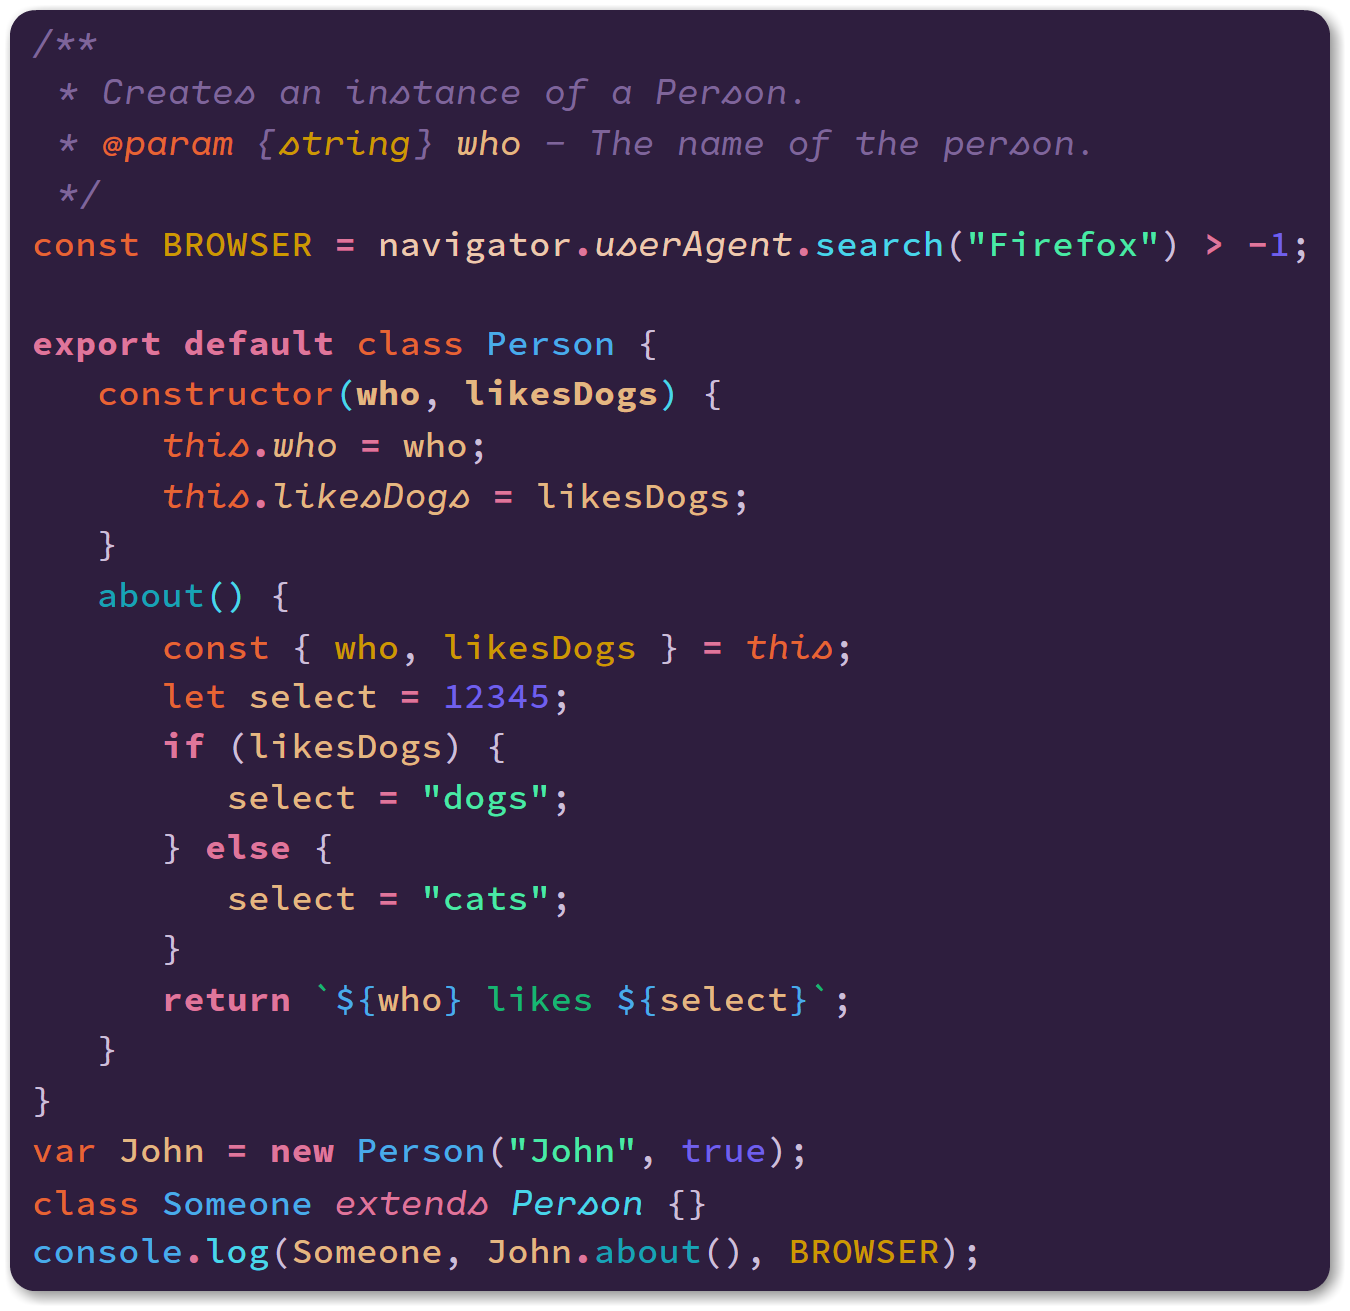
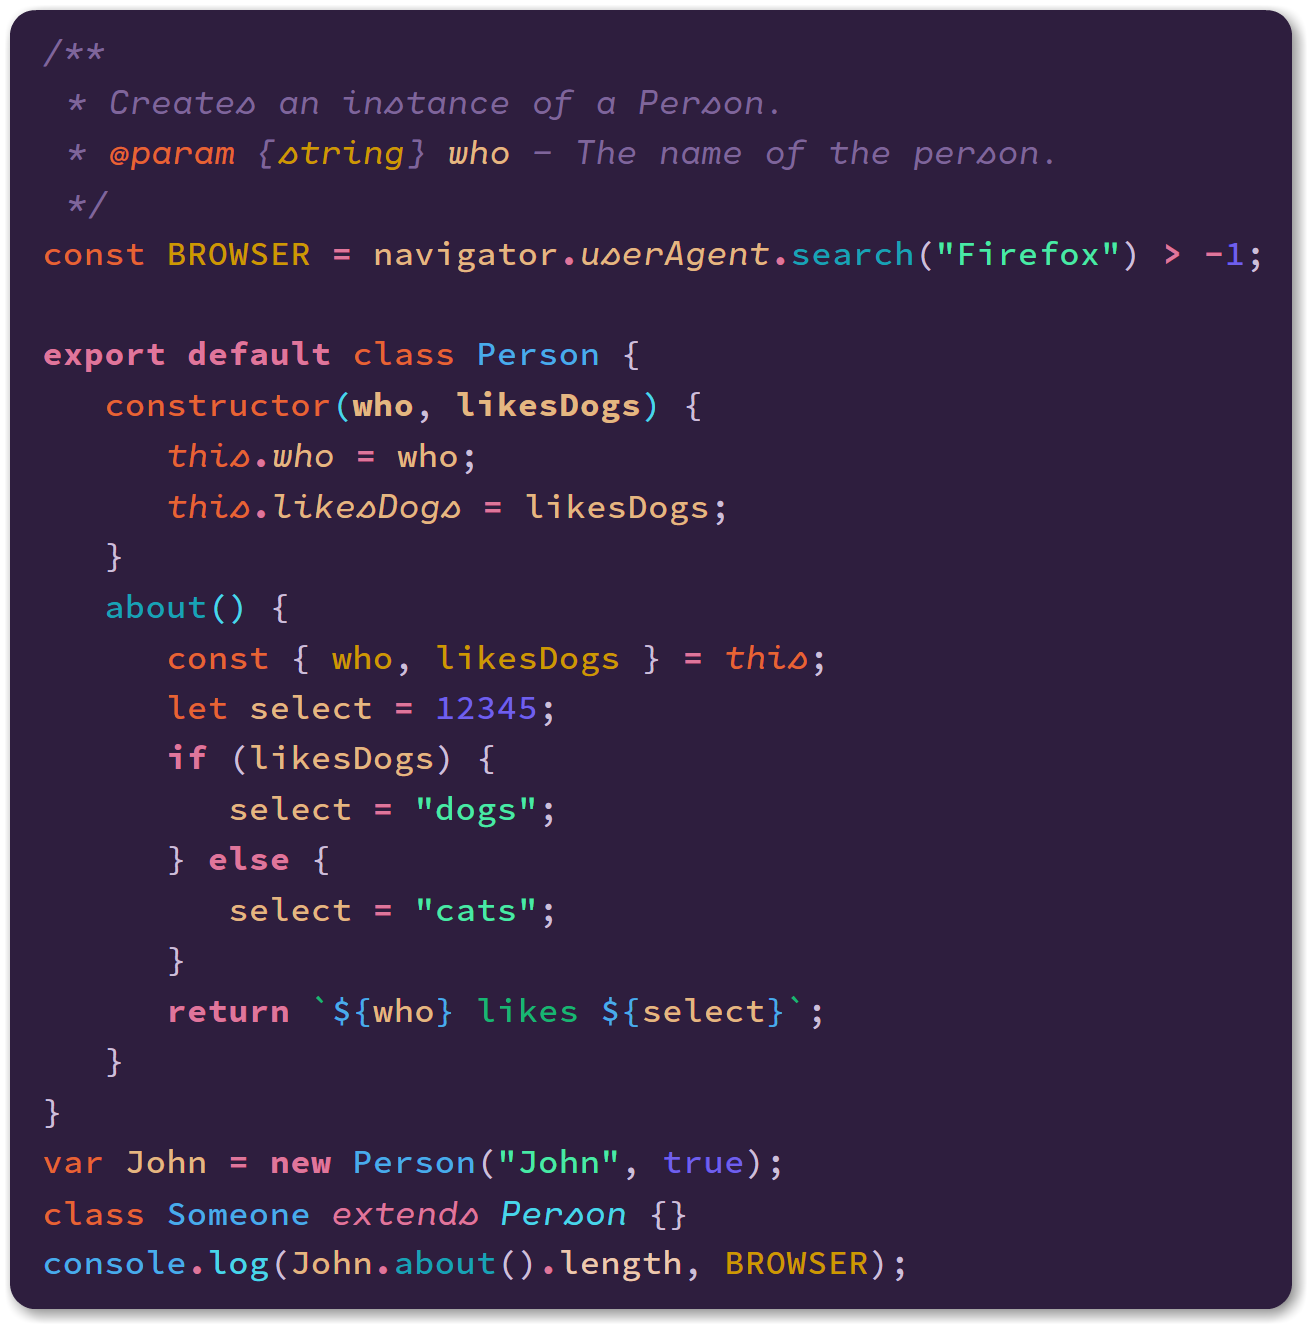
7.4.0

diff --git a/JavaScript.js b/JavaScript.js
@@ -24,8 +24,9 @@
       }
       var John = new Person("John", true);
       class Someone extends Person {}
-      console.log(Someone, John.about(), BROWSER);
+      console.log(John.about().length, BROWSER);
 
 
 
+      console.log(Someone);
       let a = () => {};

diff --git a/README.md b/README.md
@@ -136,7 +136,7 @@ The color names were matched to one of the following main color hues: Red, Yello
 | Cinnabar        | Orange | ![#e66533](https://placehold.it/15/e66533/000000?text=+) `#e66533` | Function & Variable Declaration, Tags & `this` |
 | Buddha Gold     | Yellow | ![#cc9900](https://placehold.it/15/cc9900/000000?text=+) `#cc9900` | Attributes, Constants & Type annotations       |
 | Gold Sand       | Yellow | ![#e4b781](https://placehold.it/15/e4b781/000000?text=+) `#e4b781` | Variables & Parameters                         |
-| Desert Sand     | Brown  | ![#edc9af](https://placehold.it/15/edc9af/000000?text=+) `#edc9af` | DOM Objects                                    |
+| Desert Sand     | Brown  | ![#edc9af](https://placehold.it/15/edc9af/000000?text=+) `#edc9af` | Object properties, ID selectors in CSS         |
 
 ### Minimus Colors
 
@@ -153,7 +153,7 @@ The color names were matched to one of the following main color hues: Red, Yello
 | Burning Sand  | Orange | ![#d18161](https://placehold.it/15/d18161/000000?text=+) `#d18161` | Function & Variable Declaration, Tags & `this` |
 | Husk          | Yellow | ![#b3994d](https://placehold.it/15/b3994d/000000?text=+) `#b3994d` | Attributes, Constants & Type annotations       |
 | Tan           | Brown  | ![#d3b692](https://placehold.it/15/d3b692/000000?text=+) `#d3b692` | Variables & Parameters                         |
-| Dust Storm    | Orange | ![#e1cbbc](https://placehold.it/15/e1cbbc/000000?text=+) `#e1cbbc` | DOM Objects                                    |
+| Dust Storm    | Orange | ![#e1cbbc](https://placehold.it/15/e1cbbc/000000?text=+) `#e1cbbc` | Object properties, ID selectors in CSS         |
 
 ### Lux Colors
 
@@ -170,7 +170,7 @@ The color names were matched to one of the following main color hues: Red, Yello
 | Grenadier        | Orange | ![#d13b00](https://placehold.it/15/d13b00/000000?text=+) `#d13b00` | Function & Variable Declaration, Tags & `this` |
 | Pirate Gold      | Yellow | ![#b38600](https://placehold.it/15/b38600/000000?text=+) `#b38600` | Attributes, Constants & Type annotations       |
 | Carrot Orange    | Orange | ![#ee962b](https://placehold.it/15/ee962b/000000?text=+) `#ee962b` | Variables & Parameters                         |
-| Reno Sand        | Brown  | ![#a86615](https://placehold.it/15/a86615/000000?text=+) `#a86615` | DOM Objects                                    |
+| Reno Sand        | Brown  | ![#a86615](https://placehold.it/15/a86615/000000?text=+) `#a86615` | Object properties, ID selectors in CSS         |
 
 ## Installation
 

diff --git a/CHANGELOG.md b/CHANGELOG.md
@@ -1,5 +1,12 @@
 # Change Log
 
+## **7.4.0**
+
+-  as of VS Code v1.31 the syntax highlighting for DOM api have been removed. Desert Sand color will be used to highlight Object properties in JavaScript and ID selectors in CSS.
+-  removed DOM related syntax highlighting
+-  fixed punctuation highlighting
+-  updated screenshots
+
 ## **7.3.0**
 
 -  added the new list widget colors introduced in v1.31
